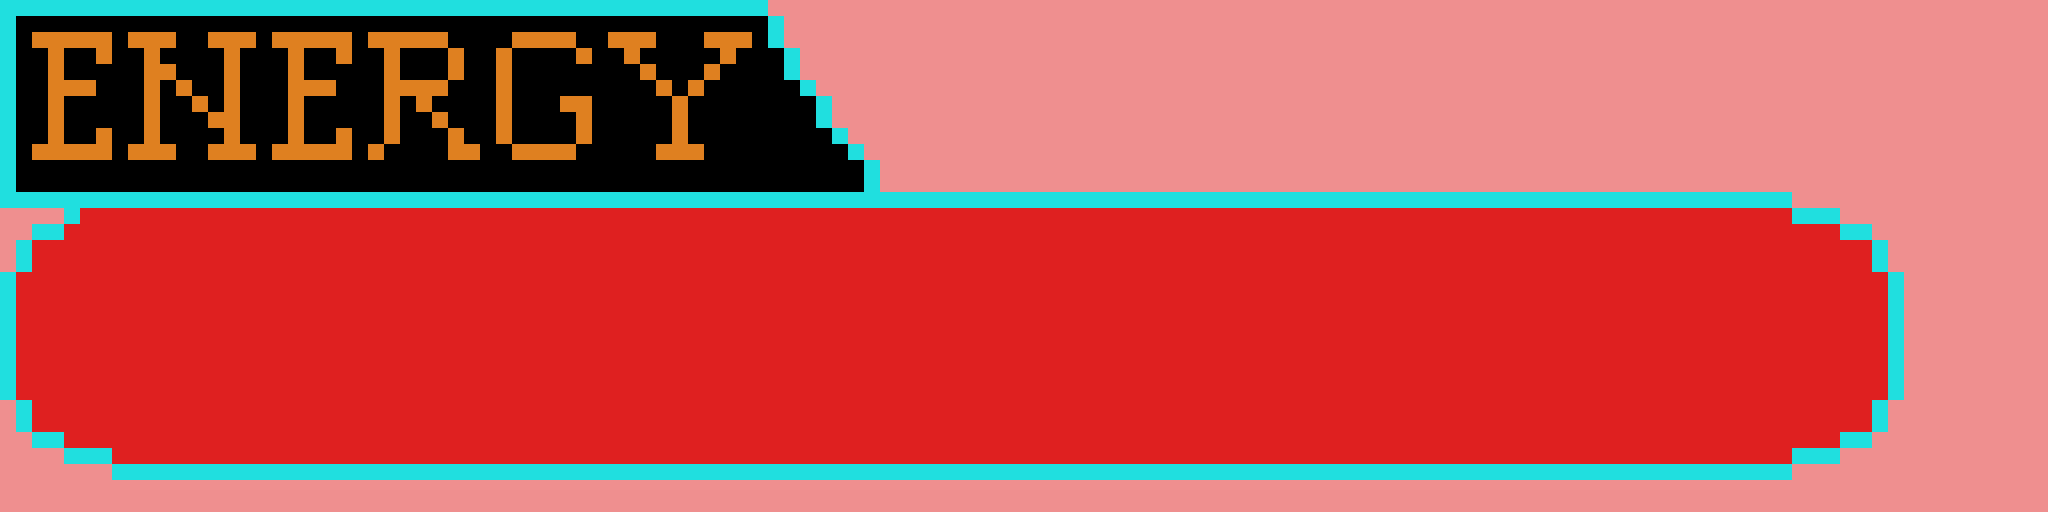
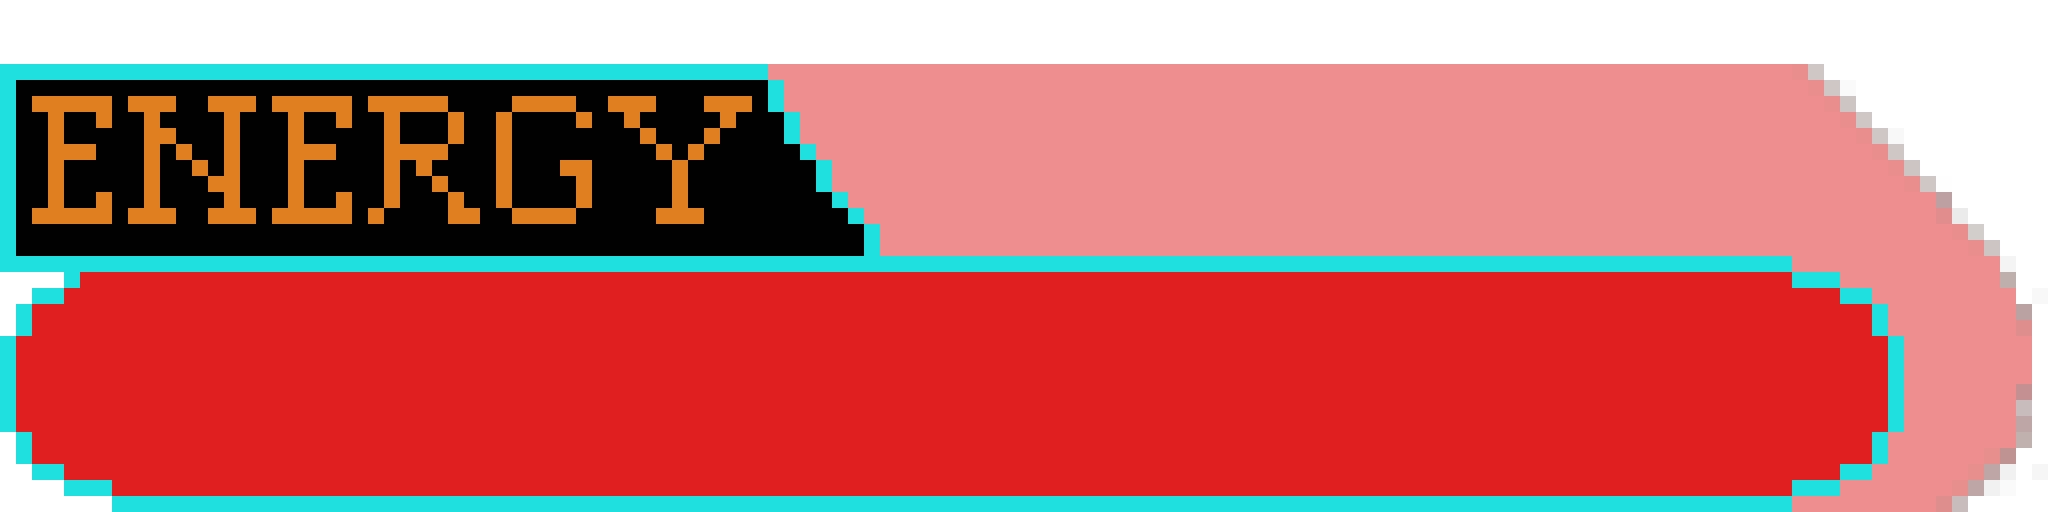
Energy bar update

diff --git a/app/src/main/java/najoah/gui/creaturegraphics/EnergyBar.java b/app/src/main/java/najoah/gui/creaturegraphics/EnergyBar.java
@@ -31,7 +31,7 @@ public class EnergyBar extends JPanel
         //creating text for labels
         this.textEnergy = new JLabel(""+energy+"/"+energy);
 
-        this.textEnergy.setBounds(60,5,60,10);
+        this.textEnergy.setBounds(60,10,60,10);
         pane = new JLayeredPane();
 
 
@@ -49,15 +49,15 @@ public class EnergyBar extends JPanel
         }
         catch(Exception e){}
 
-        //importing the green bar
-        //input = getClass().getClassLoader().getResourceAsStream("GreenHealth.png");
-        //try
-        //{
-            //healthBarGreen = ImageIO.read(input);
-            //healthBarGreenLabel.setIcon(new ImageIcon(new ImageIcon(healthBarGreen).getImage().getScaledInstance(128,48, Image.SCALE_DEFAULT)));
-            //healthBarGreenLabel.setBounds(xOfTotal-7,(yOfTotal+4),128,48);
-        //}
-        //catch(Exception e){}
+        //importing the blue bar
+        input = getClass().getClassLoader().getResourceAsStream("Energy.png");
+        try
+        {
+            energyBarBlue = ImageIO.read(input);
+            energyBarBlueLabel.setIcon(new ImageIcon(new ImageIcon(energyBarBlue).getImage().getScaledInstance(128,48, Image.SCALE_DEFAULT)));
+            energyBarBlueLabel.setBounds(xOfTotal+1,(yOfTotal-2),128,48);
+        }
+        catch(Exception e){}
 
 
         //creating health to store on the bar and edit
@@ -69,10 +69,10 @@ public class EnergyBar extends JPanel
         the green bar will be fit to the position of the total bar
         and there will be a method to shrink the green bar to fit with a ratio of the health of the pokemon
         */
-       //adding health gui
+       //adding energy gui
         pane.setBounds(0,0,148,180);
         pane.add(energyBarTotalLabel,1);
-        //pane.add(healthBarGreenLabel,0);
+        pane.add(energyBarBlueLabel,0);
 
         //adding health and name labels
         pane.add(this.textEnergy,0);
@@ -86,7 +86,7 @@ public class EnergyBar extends JPanel
         float max = maxEnergy;
         float current = currentEnergy;
 
-        //energyBarBlueLabel.setBounds(xOfTotal-7,yOfTotal+4,Math.round(121.0f*(current/max))+7,48);
+        energyBarBlueLabel.setBounds(xOfTotal+1,yOfTotal-2,Math.round(121.0f*(current/max))+7,48);
         textEnergy.setText(currentEnergy+"/"+maxEnergy);
         //yet to be implemented, adjust length and bounds of greenlabel
     }

diff --git a/app/src/main/java/najoah/gui/GameGUI.java b/app/src/main/java/najoah/gui/GameGUI.java
@@ -126,8 +126,8 @@ public class GameGUI implements ActionListener
         //this can be relatively hardcoded, or we can set this too be scaled as aratio off of main panel size/frame
         playerHP.setBounds(70,40,150,176);
         computerHP.setBounds(600,40,150,176);
-        playerEnergy.setBounds(70,215,150,176);
-        computerEnergy.setBounds(600,215,150,176);
+        playerEnergy.setBounds(70,215,150,100);
+        computerEnergy.setBounds(600,215,150,100);
         layering.add(forestLabel,0);
         layering.add(playerHP,0);
         layering.add(computerHP,0);
@@ -169,6 +169,7 @@ public class GameGUI implements ActionListener
         Pokemon[] pokes = model.getPokemon();
         this.playerHP.setHP(pokes[0].getHealthCurrent(),pokes[0].getHealthMax());
         this.computerHP.setHP(pokes[1].getHealthCurrent(),pokes[1].getHealthMax());
+        this.playerEnergy.setEnergy(45,50);
     
 
         this.moveLabel.setText("The user performed a "+pokes[0].getMove().getName()+". The computer perfomed a "+pokes[1].getMove().getName()+".");
